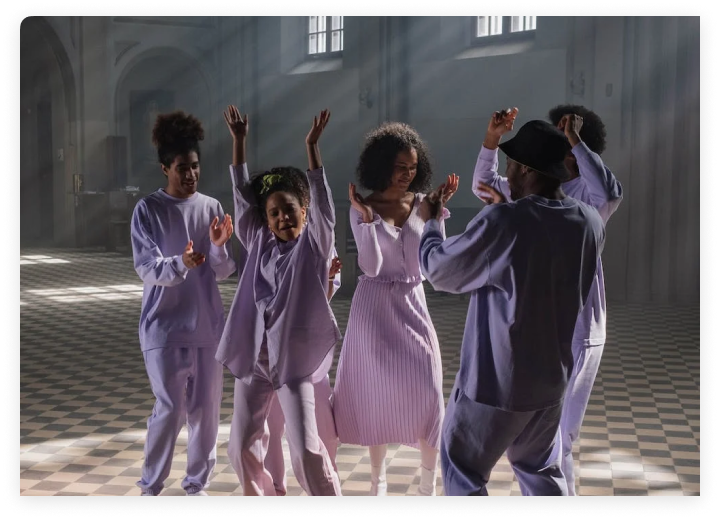
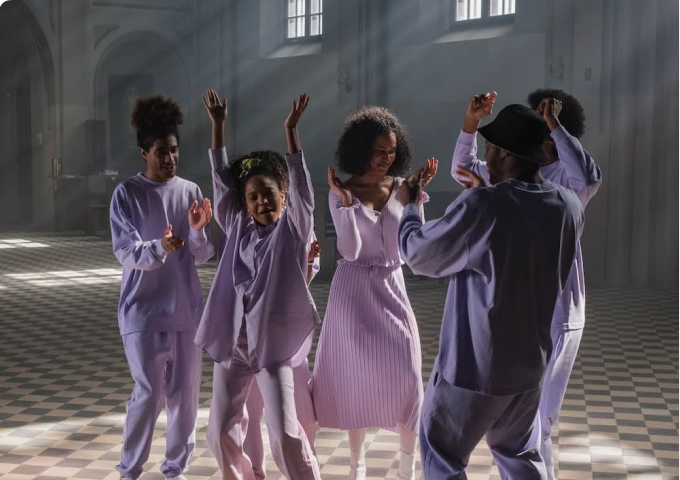
second commit

diff --git a/style.css b/style.css
@@ -313,7 +313,91 @@ button {
     margin: 0px;
 }
 
-.play-video{
+.play-video {
+    width: 100%;
     max-width: 1440px;
     height: auto;
+    margin: auto;
+    position: relative;
+}
+
+.video-section {
+    display: flex;
+    flex-direction: row;
+    justify-content: center;
+}
+
+.video-section img {
+    max-width: 50%;
+    height: 480px;
+    z-index: 0;
+    margin: -1px;
+}
+
+.h1tag h1 {
+    width: 87px;
+    height: 30px;
+    font-family: 'Lato';
+    font-style: normal;
+    font-weight: 700;
+    font-size: 24px;
+    line-height: 30px;
+    color: #191919;
+    padding: 0px 0px 0px 40px;
+}
+
+.absolute {
+    position: absolute;
+    top: 45.5%;
+    left: 47%;
+}
+
+.absolute img {
+    width: 83px;
+    height: 83px;
+    z-index: 2;
+}
+
+.reatings {
+    width: 120px;
+    height: 18px;
+    display: flex;
+    align-items: center;
+    padding: 0px 40px;
+    margin-top: 20px;
+    justify-content: space-between;
+}
+
+.ratings-text {
+    display: flex;
+    flex-direction: row;
+    align-items: center;
+}
+
+.ratings-text img {
+    width: 13.33px;
+    height: 13.33px;
+}
+
+.ratings-text p {
+    width: 43px;
+    height: 18px;
+    font-family: 'Lato';
+    font-style: normal;
+    font-weight: 400;
+    font-size: 14px;
+    line-height: 18px;
+    color: #191919;
+}
+
+.Kingdom {
+    width: 177px;
+    height: 24px;
+    font-family: 'Lato';
+    font-style: normal;
+    font-weight: 600;
+    font-size: 20px;
+    line-height: 24px;
+    color: #191919;
+    padding: 0px 40px 0px;
 }

diff --git a/index.html b/index.html
@@ -65,9 +65,33 @@
             <p>Round 2</p>
             <p>Round 1</p>
         </div>
-        <div class="play-video">
-
+        <div class="h1tag">
+            <h1>Group 1</h1>
         </div>
+        <div class="play-video">
+            <div class="video-section">
+                <img src="images/video1.png" alt="video1">
+                <img src="images/video2.png" alt="video1">
+            </div>
+            <div class="video-section">
+                <img src="images/video3.png" alt="video1">
+                <img src="images/video4.png" alt="video1">
+            </div>
+            <div class="absolute">
+                <img src="images/Play Circle.svg" alt="Play Circle.svg">
+            </div>
+        </div>
+        <div class="reatings">
+            <div class="ratings-text">
+                <img src="images/star.svg" alt="star.svg">
+                <p>10.20k</p>
+            </div>
+            <div class="ratings-text">
+                <img src="images/comentsvg.svg" alt="Comment.svg">
+                <p>6.4k</p>
+            </div>
+        </div>
+        <p class="Kingdom">Kingdom rebel crew</p>
     </div>
 </body>
 
